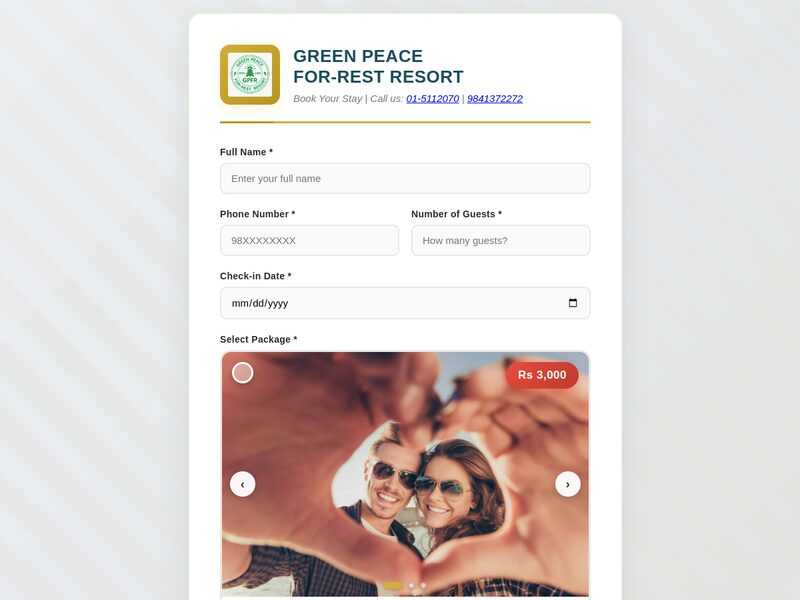
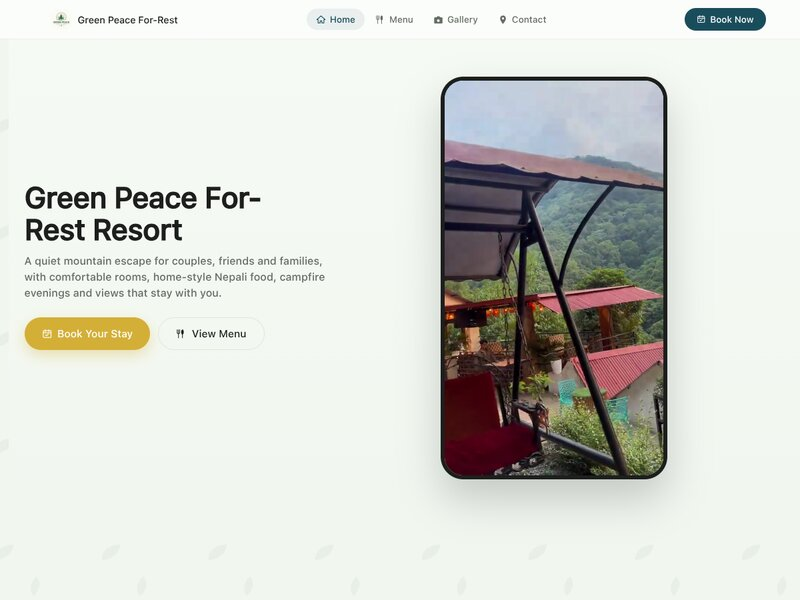
Update Green Peace Resort thumbnail to new site design
Claude-Session: https://claude.ai/code/session_01DLTybgT76FpEYY1bAwWia1

diff --git a/index.html b/index.html
@@ -71,7 +71,7 @@
       <li>
         <a class="work-card" href="https://resortgreenpeace.com.np" target="_blank" rel="noopener">
           <span class="work-thumb">
-            <img src="images/greenpeace.jpg" alt="Green Peace Resort preview" loading="lazy" width="800" height="600">
+            <img src="images/greenpeace.jpg?v=2" alt="Green Peace Resort preview" loading="lazy" width="800" height="600">
           </span>
           <span class="work-card-body">
             <span class="work-tag">Resort</span>
